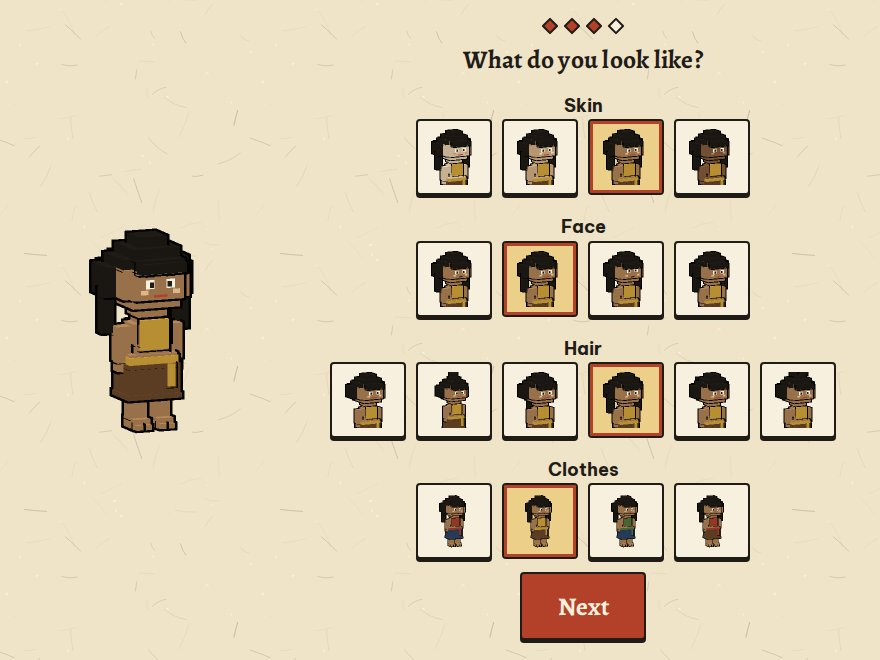
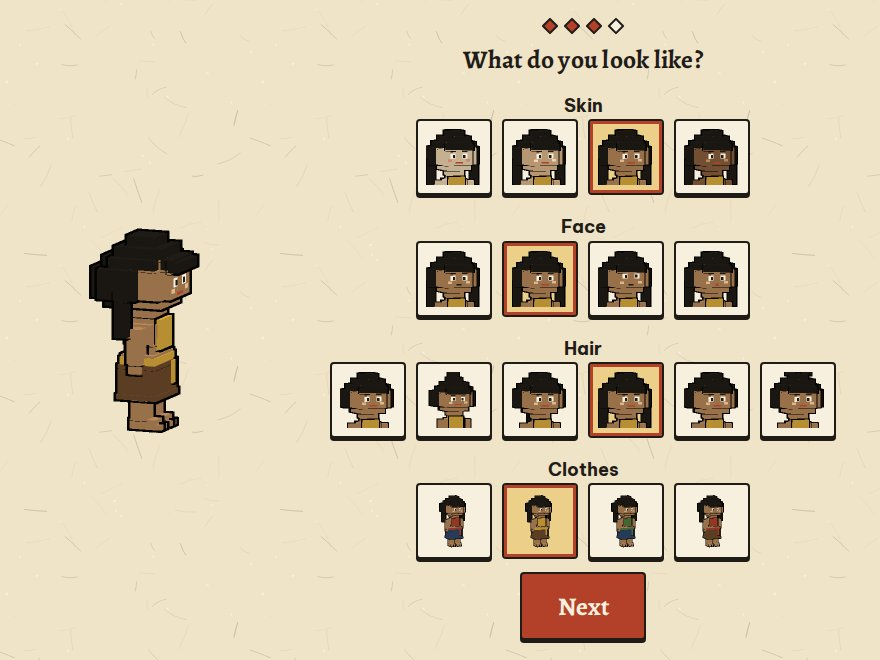
Frame the portraits closer: a bust with a large head, and a head framing for the choices (#17)
- bust: the head fills about 60 percent of the height, cut at the
  collarbone. The face turns 20 degrees from the front, and the camera is
  only a little over the eyes.
- head: the head and the neck (80 percent), for the skin, face, and hair
  buttons of hero creation. The clothes buttons stay full length.
- The frame math is pure (faceFrame in src/world/portraits.js), with a
  test.

diff --git a/src/render/portrait.js b/src/render/portrait.js
@@ -2,7 +2,8 @@
 // the game (src/render/gl.js), off the screen, and copied to a small canvas. No second WebGL
 // context. The same flat tones, ink outline, and light as in the world, on a clear background (the
 // box around a portrait gives the paper). The key and the cache are in src/world/portraits.js.
-//   bust: the head and the shoulders, three-quarter view (the dialogue box, the HUD, the cards).
+//   head: the head and the neck (the small choice buttons of hero creation).
+//   bust: the head and the shoulders down to the collarbone (the dialogue box, the HUD, the cards).
 //   full: the whole figure (the callings, the notebook of #8).
 // A look { prop, w, h, seed } is a prop of src/world/props/ (the gate and the stele of Văn Miếu),
 // drawn whole, with its flat tones and its ink lines.
@@ -11,12 +12,12 @@
 import * as THREE from 'three';
 import { rendererFor } from './gl.js';
 import { figureMeshes } from './figure3d.js';
-import { portraitKey, createLru, propMesh, CACHE_SIZE } from '../world/portraits.js';
+import { portraitKey, createLru, propMesh, faceFrame, FACE_FRAMES, CACHE_SIZE } from '../world/portraits.js';
 import { C } from './palette.js';
 
 const SUPER = 2; // render at twice the size, and draw it smaller: soft edges with no multisampling
-const ELEVATION = 0.18; // radians: the camera is a little over the eyes
-const TURN = { bust: 0.5, full: 0.4 }; // the three-quarter turn of the figure
+const ELEVATION = 0.18; // radians: the camera a little over a whole figure or a prop
+const TURN = 0.4; // the three-quarter turn of a whole figure; a face has its own (FACE_FRAMES)
 
 // The meshes of a prop on its own (src/world/portraits.js), turned by `facing`.
 function propMeshes(look, facing) {
@@ -79,7 +80,8 @@ export function createPortraits(canvas) {
     const renderer = rendererFor(canvas);
     const px = Math.max(8, Math.round(size * ratio));
     const big = px * SUPER;
-    const turn = facing ?? TURN[framing] ?? 0.4;
+    const face = FACE_FRAMES[framing];
+    const turn = facing ?? face?.turn ?? TURN;
     const fig = look.prop ? propMeshes(look, turn) : figureMeshes({ ...look, mood }, { facing: turn });
     scene.add(fig.group);
     // The frame: the whole figure, or the head and the shoulders around the head.
@@ -91,11 +93,11 @@ export function createPortraits(canvas) {
       box.getCenter(center);
       const s = box.getSize(new THREE.Vector3());
       half = Math.max(s.y, Math.hypot(s.x, s.z) * 0.8) * 0.58;
-    } else if (framing === 'bust' && fig.head) {
-      // From the head to the top of the hair (a thing in the hands, as a staff, does not count).
-      const r = Math.max(fig.height - fig.head.y, fig.height * 0.22);
-      center.set(fig.head.x, fig.head.y - r * 0.5, fig.head.z);
-      half = r * 1.6;
+    } else if (face && fig.head) {
+      // The head (and the neck, or the shoulders) fills its share of the image (src/world/portraits.js).
+      const f = faceFrame(framing, { headY: fig.head.y, top: fig.height });
+      center.set(fig.head.x, f.y, fig.head.z);
+      half = f.half;
     } else {
       // The whole figure, from its feet (the origin) to the top of its head: the same frame at
       // every turn, so that a turning figure keeps its size.
@@ -106,7 +108,8 @@ export function createPortraits(canvas) {
     camera.right = half;
     camera.top = half;
     camera.bottom = -half;
-    camera.position.set(center.x, center.y + Math.sin(ELEVATION) * 50, center.z + Math.cos(ELEVATION) * 50);
+    const elevation = face && fig.head ? face.elevation : ELEVATION;
+    camera.position.set(center.x, center.y + Math.sin(elevation) * 50, center.z + Math.cos(elevation) * 50);
     camera.lookAt(center);
     camera.updateProjectionMatrix();
     const target = new THREE.WebGLRenderTarget(big, big);

diff --git a/src/world/portraits.js b/src/world/portraits.js
@@ -9,8 +9,31 @@ import { roofMesh } from './roofs.js';
 
 // The moods of a face (the brows and the mouth of the figure builder, src/world/fine.js).
 export const MOODS = Object.freeze(['calm', 'happy', 'worried', 'surprised']);
-// The framings: bust (the head and the shoulders, three-quarter view) and full (the whole figure).
-export const FRAMINGS = Object.freeze(['bust', 'full']);
+// The framings: head (the head and the neck, for the small choice buttons of hero creation), bust
+// (the head and the shoulders, for the dialogue box and the cards), and full (the whole figure).
+export const FRAMINGS = Object.freeze(['head', 'bust', 'full']);
+// For each framing that has a face: the share of the height of the image that the head fills (from
+// the chin to the top of the hair), the turn of the figure from the front (radians), and the
+// height of the camera over the eyes (radians, small: the face, not the top of the hair). A head of
+// blocks shows much of its side when it turns, so a turn of 20 degrees reads as about 30.
+export const FACE_FRAMES = Object.freeze({
+  head: { share: 0.8, turn: (15 * Math.PI) / 180, elevation: 0.06 },
+  bust: { share: 0.6, turn: (20 * Math.PI) / 180, elevation: 0.08 },
+});
+
+// The frame of a face: the middle (y) and the half height of the image, in world units. headY: the
+// middle of the head; top: the top of the hair. The chin is 0.8 of the way from the top to the
+// middle below the middle (a head of seven units with a cap of hair one unit thick). The head fills
+// its share of the height, with a small margin over the hair; the rest is the neck and the
+// shoulders down to the collarbone (bust), or only the neck (head).
+export function faceFrame(framing, { headY, top }) {
+  const f = FACE_FRAMES[framing] ?? FACE_FRAMES.bust;
+  const r = Math.max(0.01, top - headY);
+  const head = 1.8 * r;
+  const height = head / f.share;
+  const frameTop = top + 0.03 * height;
+  return { y: frameTop - height / 2, half: height / 2, chin: headY - 0.8 * r };
+}
 export const CACHE_SIZE = 64;
 
 // A text for a value with the keys of each object in order, so that the same look gives the same

diff --git a/tests/portraits.test.js b/tests/portraits.test.js
@@ -1,7 +1,7 @@
 import { test } from 'node:test';
 import assert from 'node:assert/strict';
 import { readFileSync, readdirSync } from 'node:fs';
-import { portraitKey, createLru, speakerLook, MOODS, CACHE_SIZE } from '../src/world/portraits.js';
+import { portraitKey, createLru, speakerLook, faceFrame, MOODS, CACHE_SIZE } from '../src/world/portraits.js';
 import { heroLook } from '../src/world/figures.js';
 import { personFine } from '../src/world/fine.js';
 import { colorIndex } from '../src/world/voxel.js';
@@ -101,4 +101,20 @@ test('no picture of a person or a thing of the world is left, and no code asks f
     const text = readFileSync(f, 'utf8');
     assert.ok(!/art\/(hero|npc|friend|thing|calling)\/|['"](hero|npc|friend|thing|calling)\/[a-z-]+['"]/.test(text), `${f.pathname} asks for an old picture`);
   }
+});
+
+test('a bust is filled for most of its height by the head, and a head framing is closer still', () => {
+  // A head of the elder: the middle of the head at 2.5, the top of the hair at 2.9 (world units).
+  const at = { headY: 2.5, top: 2.9 };
+  for (const [framing, share] of [['bust', 0.6], ['head', 0.8]]) {
+    const f = faceFrame(framing, at);
+    const head = at.top - f.chin;
+    assert.ok(Math.abs(head / (2 * f.half) - share) < 0.01, `${framing}: the head fills ${(head / (2 * f.half)).toFixed(2)}`);
+    assert.ok(f.y + f.half > at.top && f.y + f.half - at.top < 0.05 * 2 * f.half, `${framing}: a small margin over the hair`);
+  }
+  // The bust goes down past the chin to the collarbone; the head framing shows only the neck.
+  const bust = faceFrame('bust', at);
+  const head = faceFrame('head', at);
+  assert.ok(bust.y - bust.half < head.y - head.half);
+  assert.ok(head.half < bust.half, 'the head framing is closer');
 });

diff --git a/src/ui/create.js b/src/ui/create.js
@@ -160,8 +160,9 @@ export async function mountCreate(ctx) {
       stage.append(next);
     } else if (name === 'look') {
       stage.append(title('create.look'));
-      // A small rendered picture of the hero with one choice changed.
-      const thumb = (change, framing = 'bust') => {
+      // A small rendered picture of the hero with one choice changed: the head (skin, face, hair) or
+      // the whole hero (clothes).
+      const thumb = (change, framing = 'head') => {
         const el = portraitCanvas(ctx, heroLook({ ...hero, ...change }, opts), { framing, size: 56 });
         return h('span', { class: 'thumb' }, [el]);
       };

diff --git a/docs/ART.md b/docs/ART.md
@@ -260,10 +260,10 @@ The world moves when the child does nothing (`docs/WORLD.md`, "The world at rest
 One look for each person: the portraits are rendered from the voxel figures, not drawn. A new villager or a new creature gets its portrait from its look in `data/figures.json`, with no new art.
 
 - **The renderer** (`src/render/portrait.js`) draws one figure (the fine level, section 15) into a render target of the one renderer of the game (`src/render/gl.js`), off the screen, and copies the image to a small canvas. No second WebGL context. The same three flat tones, the same ink outline, and the same light from the front-left as in the world, on a clear background: the box around a portrait gives the paper.
-- **Framings:** `bust` (the head and the shoulders, three-quarter view: the dialogue box, the corner of the HUD, the cards of the title, the list of the parent area, the seal of the hero on the country map) and `full` (the whole figure: the callings, the turning hero of hero creation, the notebook).
+- **Framings:** `head` (the head and the neck: the head fills about 80 percent of the height; the skin, face, and hair buttons of hero creation), `bust` (the head fills about 60 percent of the height, cut at the collarbone: the dialogue box, the corner of the HUD, the cards of the title, the list of the parent area, the seal of the hero on the country map), and `full` (the whole figure: the callings, the clothes buttons and the turning hero of hero creation, the notebook). A face turns a little from the front (20 degrees for `bust`, 15 for `head`; a head of blocks shows much of its side, so this reads as about 30), and the camera is only a little over the eyes, so that the face and its mood read at small sizes. The numbers are `FACE_FRAMES` in `src/world/portraits.js`.
 - **Moods:** `calm`, `happy`, `worried`, and `surprised`, made from the brows and the mouth of the face (`src/world/fine.js`). A line of the dialogue data can name a mood (`mood`); without one, the face is calm.
 - **Props as views:** a prop of the world can also be a view (`views` in `data/figures.json`): the gate of Văn Miếu and the stele on its turtle are blocks, as in the world (`src/world/props/things.js`), with their ink lines drawn a little wider.
 - **Cache:** the key is the look, the framing, the mood, the size, the pixel ratio, and the turn (`src/world/portraits.js`). The same key gives the same image. At most 64 images stay (the one that was used last goes out first). At most one portrait renders in a frame; the village renders the hero, Nghé, and the people of the map when the map opens, so that a dialogue never waits.
-- **Hero creation:** the preview is the voxel hero, at 16 turns, that steps around slowly (a drag turns it), and each choice button shows the hero with that choice. The choices are in `data/figures.json` (`hero`).
+- **Hero creation:** the preview is the voxel hero, at 16 turns, that steps around slowly (a drag turns it), and each choice button shows the hero with that choice (`head` for the skin, the face, and the hair; `full` for the clothes). The choices are in `data/figures.json` (`hero`).
 - **The notebook of #8** draws its prints of people, creatures, and places with this renderer (`portraitCanvas` in `src/ui/portraits.js`; a view of a place is a prop look `{ prop, w, h, seed }`). It makes no new pictures.
 - **What stays SVG:** the small UI icons (`art/ui/`), the items (`art/item/`), the logo and the app icons, the paper, the patterns of frames, and the bamboo of the title screen. These are graphic design, not pictures of things in the world.
